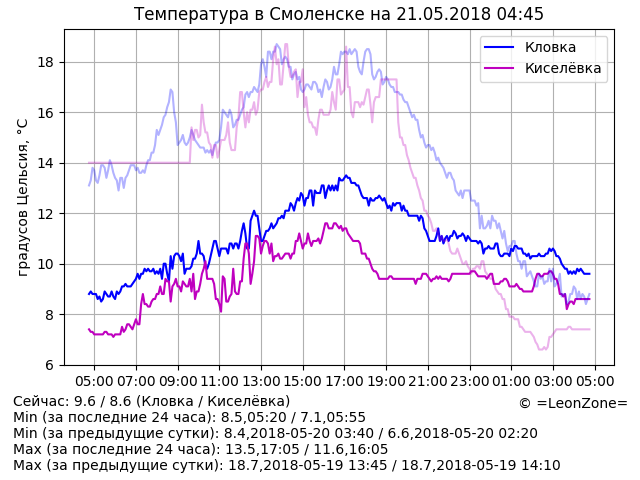
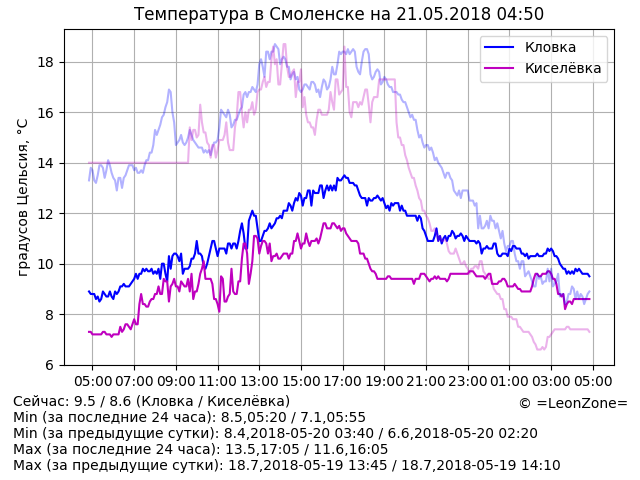
Update data

diff --git a/index.html b/index.html
@@ -14,7 +14,7 @@
 	<p align="center"><script>document.write("<img src=\"graph.png?rnd="+Math.random()+"\" alt=\"Температура в Смоленске\" align=\"middle\" width=\"640\" height=\"480\" />")</script>
 	<p hidden="true">
 <!-- textinfo -->
-Сейчас: 9.6 / 8.6 (Кловка / Киселёвка)
+Сейчас: 9.5 / 8.6 (Кловка / Киселёвка)
 Min (за последние 24 часа): 8.5,05:20 / 7.1,05:55
 Min (за предыдущие сутки): 8.4,2018-05-20 03:40 / 6.6,2018-05-20 02:20
 Max (за последние 24 часа): 13.5,17:05 / 11.6,16:05
